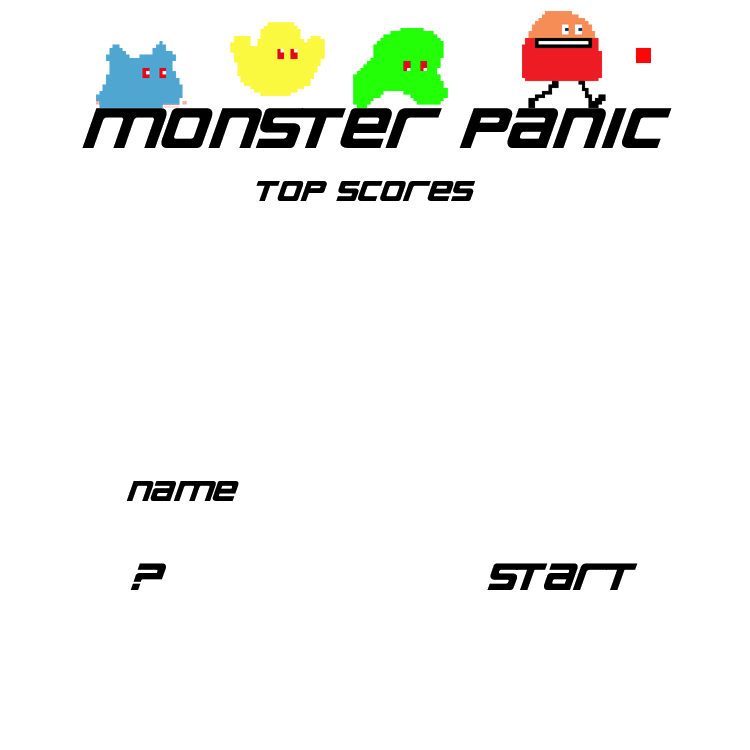
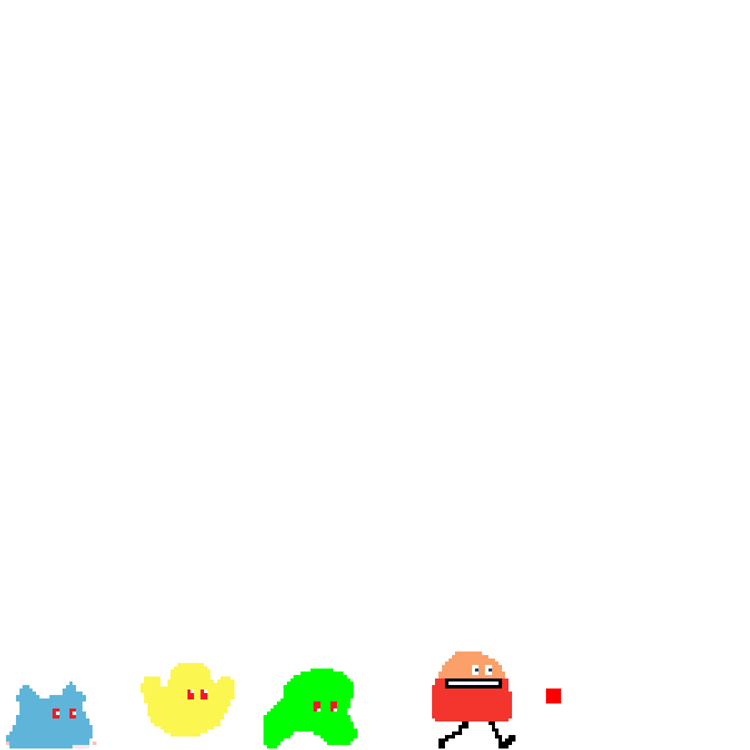
Login screen update

diff --git a/css/styles.css b/css/styles.css
@@ -5,7 +5,90 @@
 	z-index: 10;
 	padding-left: 200px;
 	padding-top: 50px;
+	border-top: 1px;
+	border-left: 1px;
+	border-right: 1px;
+	border-bottom: 1px;
+	border-style: solid;
+	border-color: black;
+	margin-top: 28px;
+	margin-bottom:100px;
 }
+
+#start{
+	font-family: 'Share Tech Mono', sans-serif;
+	font-size: 50px;
+	position:absolute;
+	top:20;
+	left:20;
+	margin-top: -270px;
+	margin-left: 500px;
+	padding-top: 50px;
+	border-top: 1px;
+	border-left: 1px;
+	border-right: 1px;
+	border-bottom: 1px;
+	border-style: solid;
+	border-color: black;
+}
+
+#topScore{
+	
+	position:absolute;
+	top:20;
+	left:20;
+	margin-top: -875px;
+	margin-left: -90px;
+	padding-top: 50px;
+}
+#topScore p{
+	font-family: 'Share Tech Mono', sans-serif;
+	font-size: 40px;
+}
+
+#question{
+	font-family: 'Share Tech Mono', sans-serif;
+	font-size: 50px;
+	position:absolute;
+	top:20;
+	left:20;
+	margin-top: -270px;
+	margin-left: -140px;
+	padding-top: 50px;
+	border-top: 1px;
+	border-left: 1px;
+	border-right: 1px;
+	border-bottom: 1px;
+	border-style: solid;
+	border-color: black;
+}
+
+#question:hover{
+	background-color: #808080;
+}
+
+#start:hover{
+   background-color:#FF0000;
+}
+
+#name {
+	font-family: 'Share Tech Mono', sans-serif;
+	font-size: 50px;
+	position:absolute;
+	top:20;
+	left:20;
+	margin-top: -350px;
+	margin-left: -80px;
+}
+
+#namebox {
+	font-family: 'Share Tech Mono', sans-serif;
+	font-size: 40px;
+	position:absolute;
+	top:20;
+	left:20;
+}
+
 p{
 	font-family: 'Share Tech Mono', sans-serif;
 	font-size: 30px;

diff --git a/js/test.js b/js/test.js
@@ -48,12 +48,12 @@ loadImages(sources);
 var canvas = document.getElementById('drawCanvas');
 var context = canvas.getContext('2d');
 
-$('#login').click(function() {
-	$('#login').toggle();
+$('#start').click(function() {
+	$('#login').fadeOut();
 	// The URL of your web server (the port is set in app.js)
-	//	var url = 'cbrawn.monster_panic.jit.su:80';
+	//var url = 'cbrawn.monster_panic.jit.su:80';
 	//uncomment below with your local ip to run locally
-	var url = '192.168.15.100:8080';
+	var url = '192.168.15.107:8080';
 
 	//kineticjs stage
 	var stage = new Kinetic.Stage({

diff --git a/index.html b/index.html
@@ -10,7 +10,11 @@
     </head>
     
     <body>
-<div id="login"><img src="images/login.png" height="750" width="750"></div>
+<div id="login" width="952" height="806"><img src="images/login.png" height="750" width="750">
+    <div id="topScore"><p>Top Score</p></div>
+<p id="name">Name<input type="text" id="namebox" size="20" value="enter your name"></p>
+<div id="question">?</div>
+<div id="start">Start</div></div>
 <p>Monster Panic<p>	
  <canvas id="drawCanvas" width="1260" height="850"></canvas>
 <div id="maze"> 
